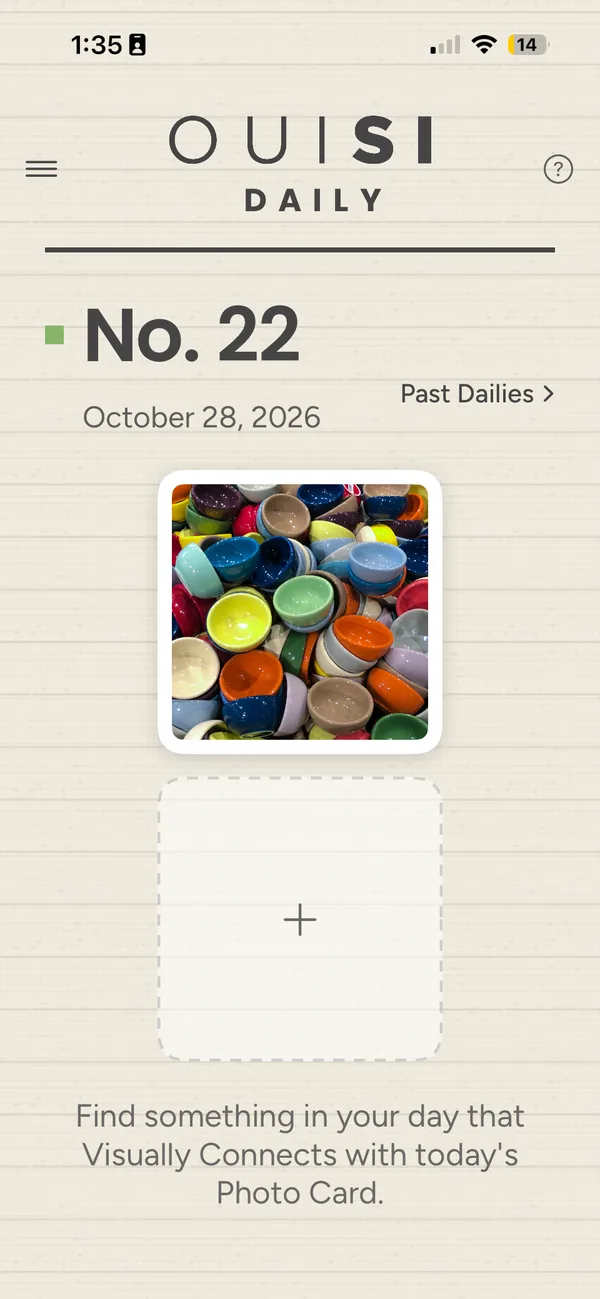
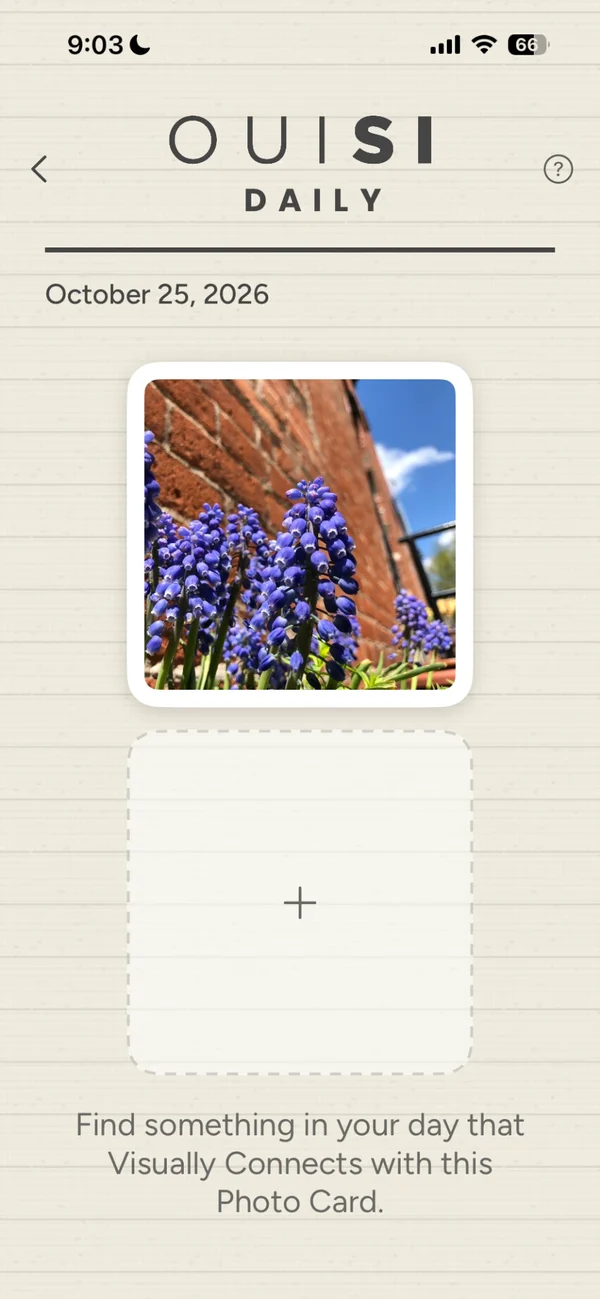
Front door apps: two screenshots per app; new Daily screens

diff --git a/index.html b/index.html
@@ -107,20 +107,18 @@
   <h2>Connect and create, from&nbsp;anywhere.</h2>
   <div class="cols top app-pairs">
     <div class="col">
-      <div class="trio">
+      <div class="duo">
         <figure class="shot"><img src="img/apps/daily-1-today.webp" alt="OuiSi Daily on iPhone: today's Photo Card and the prompt" width="1179" height="2556" loading="lazy"></figure>
-        <figure class="shot"><img src="img/apps/daily-3-pair.webp" alt="OuiSi Daily on iPhone: the Photo Card beside the photo that answers it" width="1179" height="2556" loading="lazy"></figure>
-        <figure class="shot"><img src="img/apps/daily-4-past.webp" alt="OuiSi Daily on iPhone: Past Dailies" width="1179" height="2556" loading="lazy"></figure>
+        <figure class="shot"><img src="img/apps/daily-0-share.webp" alt="OuiSi Daily: a Photo Card and the photo that answers it, shared as a #OuiSiDaily card" width="1179" height="2556" loading="lazy"></figure>
       </div>
       <h3 class="h5">OuiSi Daily</h3>
       <p>Bite-sized moments of OuiSi each day, on your phone. Wake up to a new photo card to play with. Get creative, share what you see with&nbsp;others.</p>
       <p><a href="apps/index.html#daily" class="lk">Learn more</a></p>
     </div>
     <div class="col">
-      <div class="trio">
+      <div class="duo">
         <figure class="shot"><img src="img/apps/photologue-1-thread.webp" alt="OuiSi Photologue on iPhone: photos answering each other" width="1179" height="2556" loading="lazy"></figure>
         <figure class="shot ph" role="img" aria-label="OuiSi Photologue on iPhone: inviting a friend"><span class="eb">iPhone screenshot</span><span class="shot-name">Start a Photologue</span><span class="shot-file">img/apps/photologue-2-invite</span></figure>
-        <figure class="shot ph" role="img" aria-label="OuiSi Photologue on iPhone: answering a photo with one that looks like it"><span class="eb">iPhone screenshot</span><span class="shot-name">Answer with a photo</span><span class="shot-file">img/apps/photologue-3-answer</span></figure>
       </div>
       <h3 class="h5">OuiSi Photologue</h3>
       <p>A visual thread with friends, where each new photo responds to the previous one based on a connection - like a similar pattern, shape or&nbsp;color.</p>

diff --git a/css/site.css b/css/site.css
@@ -252,16 +252,16 @@ body.menu-open{overflow:hidden}
 .shot-file{font-size:11px;line-height:1.3;overflow-wrap:anywhere}
 .lk.mail{text-transform:none;letter-spacing:0;font-size:inherit}
 
-/* the front door's apps: three iPhone screenshots above each app, at every width (Paul, 2026-10-28 desktop, 10-29 phones). */
+/* the front door's apps: two iPhone screenshots above each app, at every width (Paul: three 10-28/29, two 10-30). */
 .app-pairs{padding-top:12px}
 .app-pairs .h5+p{margin-top:-8px}
-.trio{display:grid;grid-template-columns:repeat(3,minmax(0,1fr));gap:12px;width:100%}
+.duo{display:grid;grid-template-columns:repeat(2,minmax(0,1fr));gap:12px;width:100%}
 /* phone spacing measured off the phone board: ~30px from the pictures to the app's name, ~52px from Learn more to the next app */
 .cols.app-pairs{row-gap:48px}             /* row only: desktop keeps its 80px between the two apps */
-.app-pairs .trio{margin-bottom:8px}
+.app-pairs .duo{margin-bottom:8px}
 @media (min-width:1000px){
-  .trio{gap:20px}
-  .app-pairs .trio{margin-bottom:0}
+  .duo{gap:20px}
+  .app-pairs .duo{margin-bottom:0}
 }
 
 /* /apps, phone first (Paul, 2026-10-27: "mobile forward … scroll on mobile, spread out on desktop").
